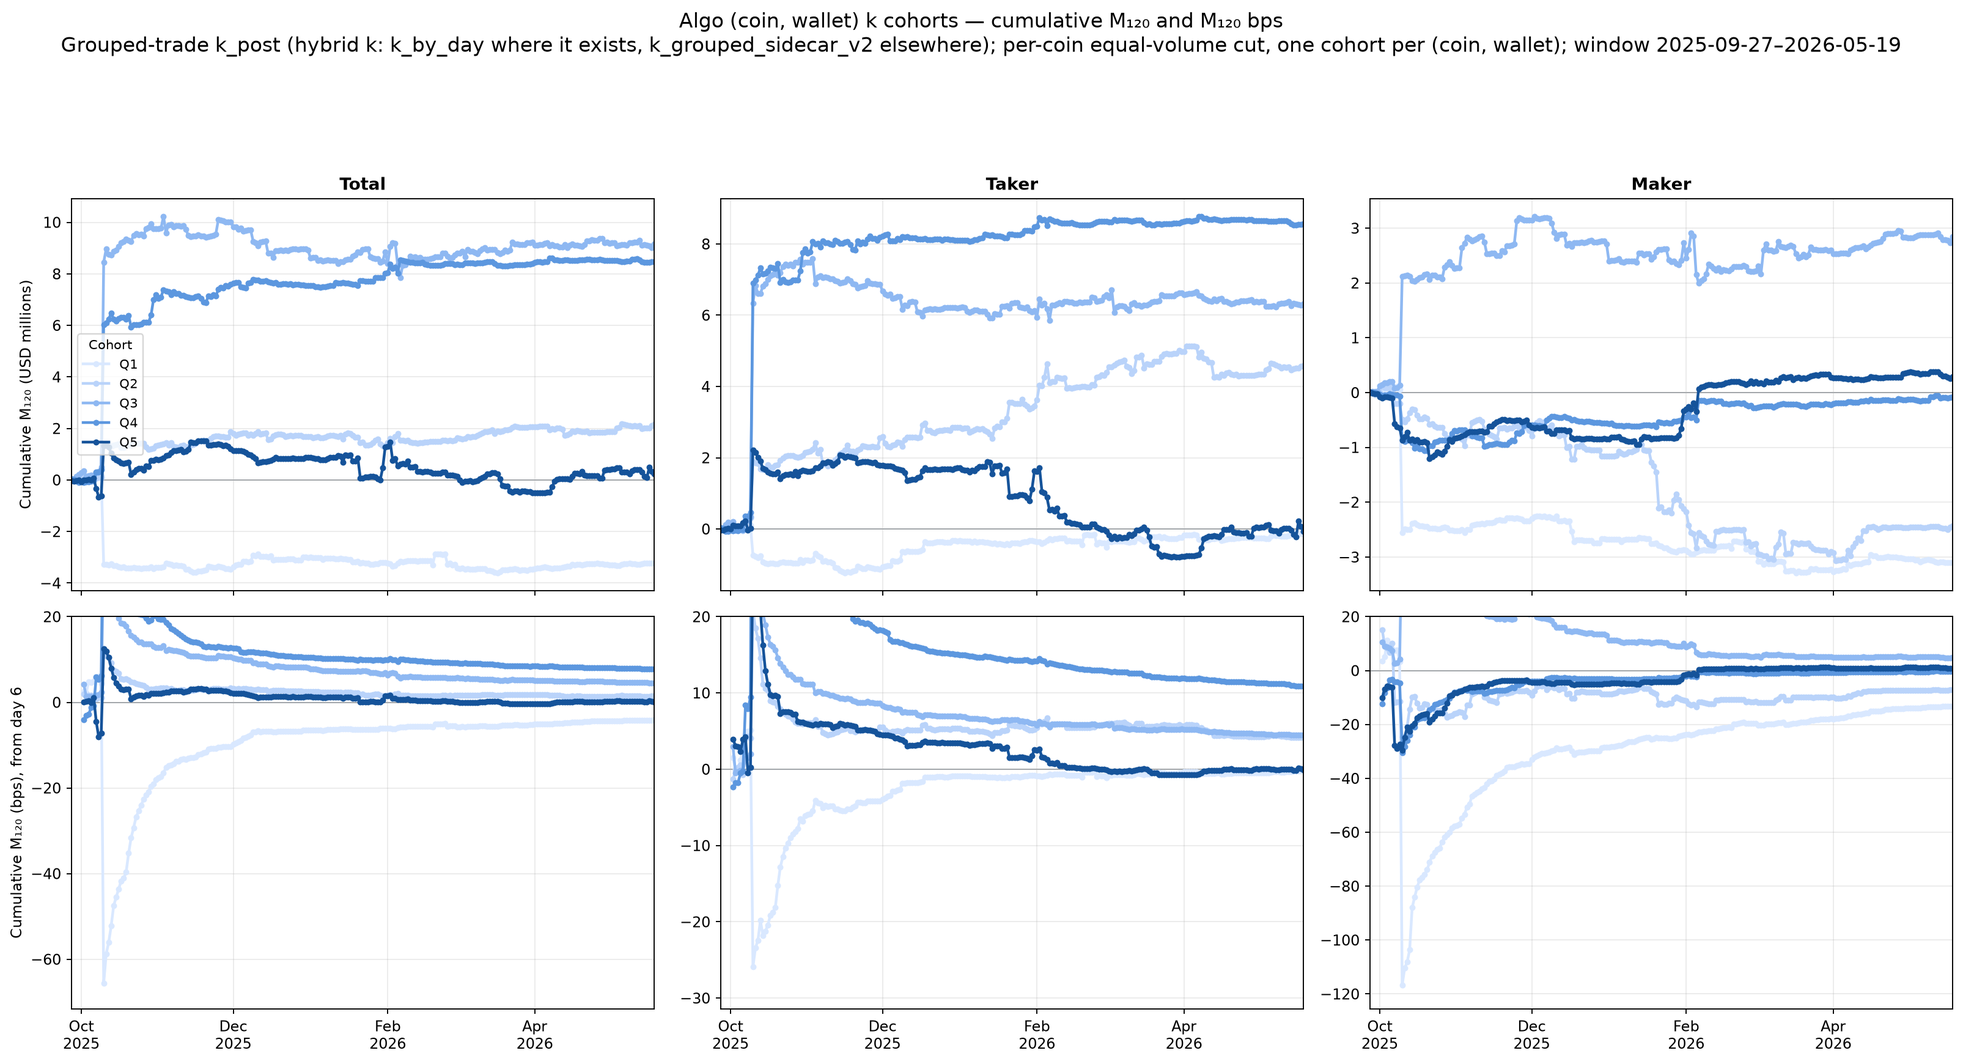
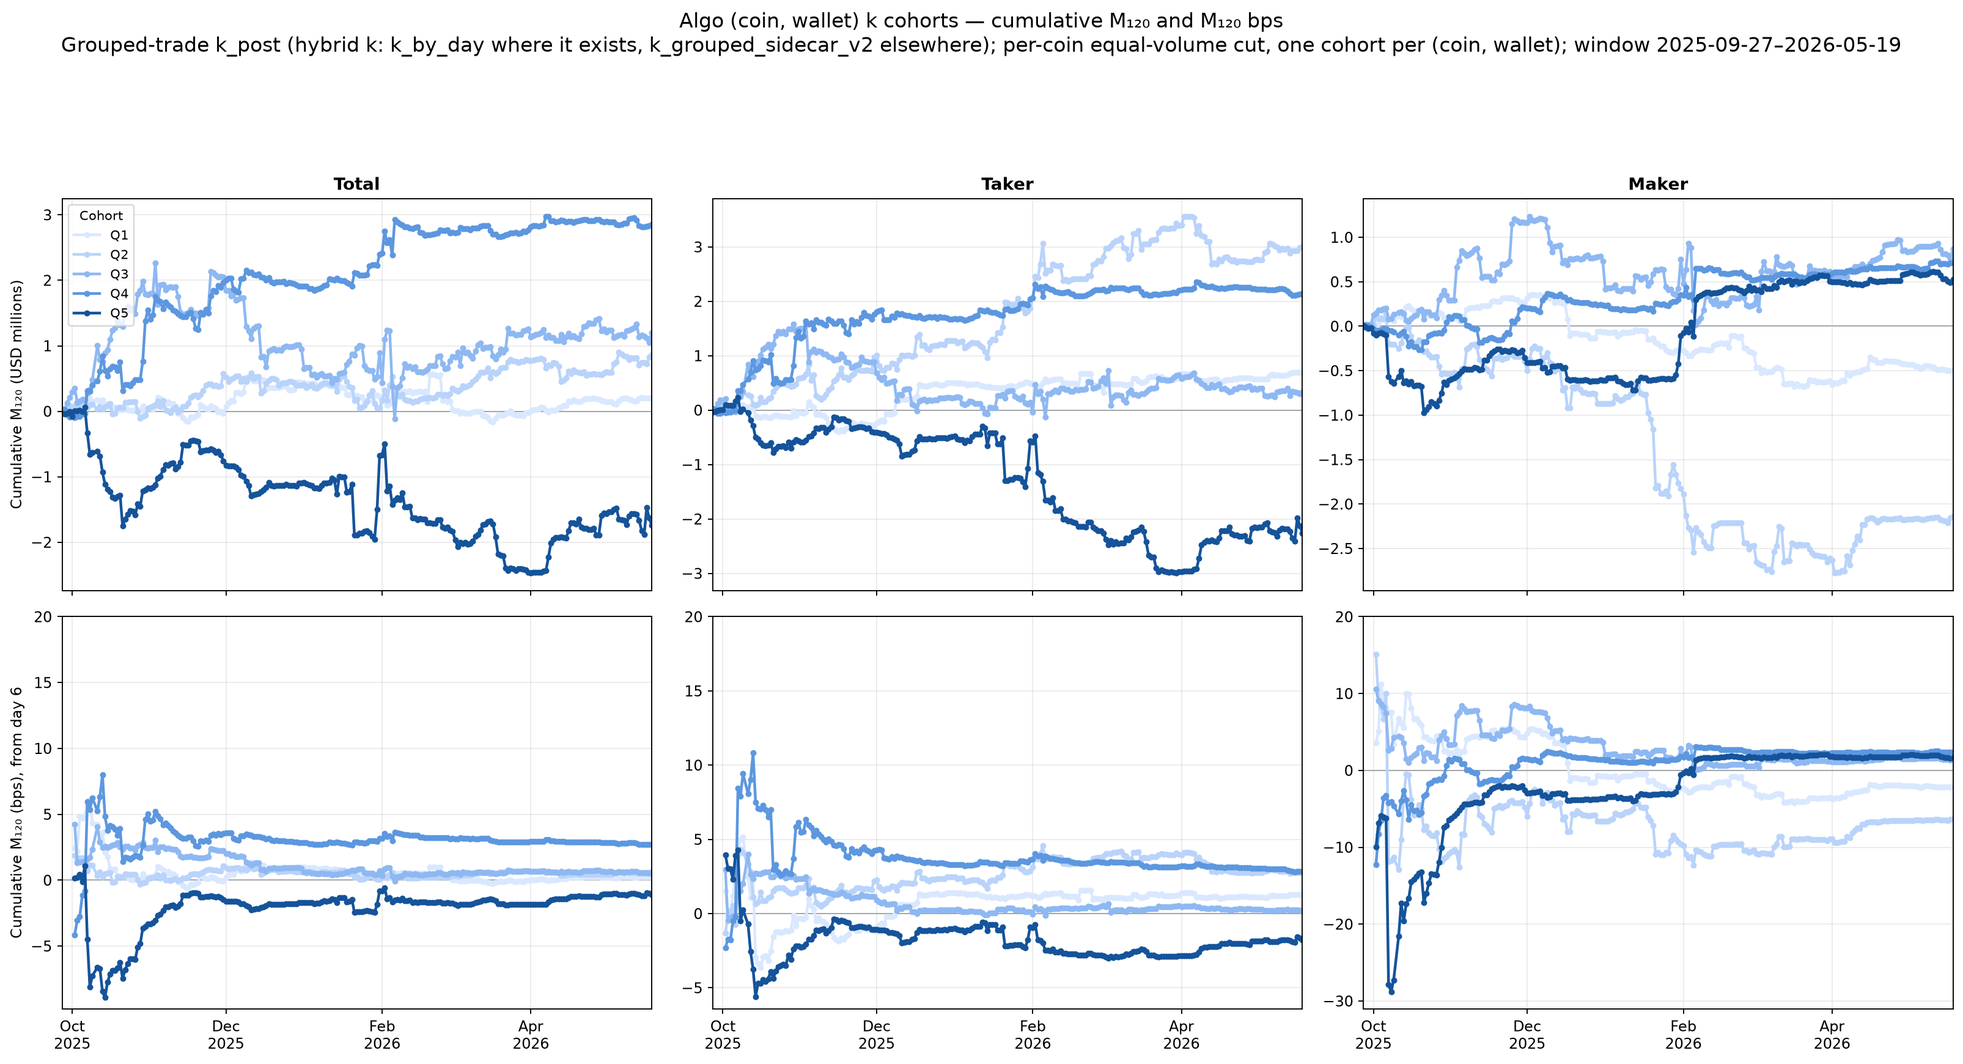
Cumulative-markout figures now exclude 2025-10-10, matching the published basis

diff --git a/index.html b/index.html
@@ -318,28 +318,28 @@ liquidation pattern is therefore generated by the margin arithmetic of a
 thin account, not by a surge in averaging down immediately before
 liquidation.</p>
 <h3 id="appendix-table-c.-markout-and-timing-by-trade-purpose">Appendix Table C. Markout and Its Price-Impact Component by Trade Purpose, Horizon and Leverage Cohort</h3>
-<p>Table L3 reports the markout on the cohort’s whole voluntary taker book. Splitting it by trade purpose locates the leverage gradient in the opening trade. At 2 hours the opening markout runs +2.08, −1.46, −4.80, −2.97 and −3.95 bps from Q1 to Q5, so the lowest-leverage cohort is the only one whose openings are still profitable, and the gradient is present at every horizon from 30 minutes on. The two closing purposes carry no leverage order at any horizon. The price-impact panel shows why the cohorts look alike inside a purpose: every cohort opens after the price has already moved 3 to 6 bps in the direction of the fill and realizes losses after an adverse move of 32 to 33 bps, and what separates them is the price path after the trade rather than the state they trade into.</p>
+<p>Table L3 reports the markout on the cohort’s whole voluntary taker book. Splitting it by trade purpose locates the leverage gradient in the opening trade. At 2 hours the opening markout runs +1.81, −0.69, −3.33, −2.03 and −3.13 bps from Q1 to Q5, so the lowest-leverage cohort is the only one whose openings are still profitable, and the gradient is present at every horizon from 30 minutes on. The two closing purposes carry no leverage order at any horizon. The price-impact panel shows why the cohorts look alike inside a purpose: every cohort opens after the price has already moved 3 to 6 bps in the direction of the fill and realizes losses after an adverse move of 30 to 32 bps, and what separates them is the price path after the trade rather than the state they trade into.</p>
 <p><strong>Panel A. Markout, bps of the purpose’s taker volume</strong></p>
 <table>
 <thead>
 <tr><th>Horizon</th><th style="text-align: right;">Q1</th><th style="text-align: right;">Q2</th><th style="text-align: right;">Q3</th><th style="text-align: right;">Q4</th><th style="text-align: right;">Q5</th></tr>
 </thead>
 <tbody>
-<tr><td colspan="6"><strong>Opening</strong>&nbsp;&nbsp;<span style="font-weight:400;color:#687773">taker volume $B, Q1 to Q5: 83.3 | 87.5 | 84.5 | 84.6 | 83.7</span></td></tr>
-<tr><td>+5 min</td><td style="text-align: right;">+0.41</td><td style="text-align: right;">+0.21</td><td style="text-align: right;">+0.08</td><td style="text-align: right;">−0.16</td><td style="text-align: right;">−0.39</td></tr>
-<tr><td>+30 min</td><td style="text-align: right;">+1.13</td><td style="text-align: right;">+0.69</td><td style="text-align: right;">−0.55</td><td style="text-align: right;">−1.07</td><td style="text-align: right;">−1.57</td></tr>
-<tr><td>+60 min</td><td style="text-align: right;">+2.22</td><td style="text-align: right;">−0.12</td><td style="text-align: right;">−2.27</td><td style="text-align: right;">−2.06</td><td style="text-align: right;">−1.87</td></tr>
-<tr><td>+120 min</td><td style="text-align: right;">+2.08</td><td style="text-align: right;">−1.46</td><td style="text-align: right;">−4.80</td><td style="text-align: right;">−2.97</td><td style="text-align: right;">−3.95</td></tr>
-<tr><td colspan="6"><strong>Gain-realizing close</strong>&nbsp;&nbsp;<span style="font-weight:400;color:#687773">taker volume $B, Q1 to Q5: 43.9 | 44.3 | 39.6 | 36.7 | 34.7</span></td></tr>
-<tr><td>+5 min</td><td style="text-align: right;">+1.01</td><td style="text-align: right;">+0.74</td><td style="text-align: right;">+0.03</td><td style="text-align: right;">−0.13</td><td style="text-align: right;">−0.47</td></tr>
-<tr><td>+30 min</td><td style="text-align: right;">+0.92</td><td style="text-align: right;">+0.68</td><td style="text-align: right;">−1.03</td><td style="text-align: right;">−0.29</td><td style="text-align: right;">−0.02</td></tr>
-<tr><td>+60 min</td><td style="text-align: right;">+1.25</td><td style="text-align: right;">+1.19</td><td style="text-align: right;">+1.18</td><td style="text-align: right;">+0.78</td><td style="text-align: right;">−0.94</td></tr>
-<tr><td>+120 min</td><td style="text-align: right;">+1.78</td><td style="text-align: right;">+0.81</td><td style="text-align: right;">+0.44</td><td style="text-align: right;">+0.39</td><td style="text-align: right;">−0.39</td></tr>
-<tr><td colspan="6"><strong>Loss-realizing close</strong>&nbsp;&nbsp;<span style="font-weight:400;color:#687773">taker volume $B, Q1 to Q5: 42.6 | 42.3 | 44.6 | 46.1 | 42.4</span></td></tr>
-<tr><td>+5 min</td><td style="text-align: right;">+1.72</td><td style="text-align: right;">+1.58</td><td style="text-align: right;">+0.11</td><td style="text-align: right;">+0.23</td><td style="text-align: right;">−0.29</td></tr>
-<tr><td>+30 min</td><td style="text-align: right;">−0.44</td><td style="text-align: right;">+1.90</td><td style="text-align: right;">+2.23</td><td style="text-align: right;">+0.86</td><td style="text-align: right;">+1.19</td></tr>
-<tr><td>+60 min</td><td style="text-align: right;">−2.65</td><td style="text-align: right;">+0.36</td><td style="text-align: right;">+1.60</td><td style="text-align: right;">−0.62</td><td style="text-align: right;">+1.23</td></tr>
-<tr><td>+120 min</td><td style="text-align: right;">−0.21</td><td style="text-align: right;">+4.73</td><td style="text-align: right;">+5.27</td><td style="text-align: right;">+1.77</td><td style="text-align: right;">+3.30</td></tr>
+<tr><td colspan="6"><strong>Opening</strong>&nbsp;&nbsp;<span style="font-weight:400;color:#687773">taker volume $B, Q1 to Q5: 82.1 | 86.0 | 82.9 | 83.4 | 82.5</span></td></tr>
+<tr><td>+5 min</td><td style="text-align: right;">+0.22</td><td style="text-align: right;">+0.29</td><td style="text-align: right;">+0.14</td><td style="text-align: right;">−0.09</td><td style="text-align: right;">−0.31</td></tr>
+<tr><td>+30 min</td><td style="text-align: right;">+0.14</td><td style="text-align: right;">+0.54</td><td style="text-align: right;">−0.64</td><td style="text-align: right;">−0.90</td><td style="text-align: right;">−1.47</td></tr>
+<tr><td>+60 min</td><td style="text-align: right;">+1.12</td><td style="text-align: right;">−0.28</td><td style="text-align: right;">−1.69</td><td style="text-align: right;">−2.07</td><td style="text-align: right;">−2.28</td></tr>
+<tr><td>+120 min</td><td style="text-align: right;">+1.81</td><td style="text-align: right;">−0.69</td><td style="text-align: right;">−3.33</td><td style="text-align: right;">−2.03</td><td style="text-align: right;">−3.13</td></tr>
+<tr><td colspan="6"><strong>Gain-realizing close</strong>&nbsp;&nbsp;<span style="font-weight:400;color:#687773">taker volume $B, Q1 to Q5: 43.5 | 43.9 | 39.1 | 36.3 | 34.4</span></td></tr>
+<tr><td>+5 min</td><td style="text-align: right;">+1.37</td><td style="text-align: right;">+0.51</td><td style="text-align: right;">+0.22</td><td style="text-align: right;">+0.43</td><td style="text-align: right;">−0.20</td></tr>
+<tr><td>+30 min</td><td style="text-align: right;">+1.22</td><td style="text-align: right;">−0.47</td><td style="text-align: right;">+0.28</td><td style="text-align: right;">+0.73</td><td style="text-align: right;">−0.78</td></tr>
+<tr><td>+60 min</td><td style="text-align: right;">+1.49</td><td style="text-align: right;">−0.04</td><td style="text-align: right;">−0.89</td><td style="text-align: right;">+1.18</td><td style="text-align: right;">+0.48</td></tr>
+<tr><td>+120 min</td><td style="text-align: right;">+2.05</td><td style="text-align: right;">−0.27</td><td style="text-align: right;">+0.06</td><td style="text-align: right;">+0.74</td><td style="text-align: right;">−0.52</td></tr>
+<tr><td colspan="6"><strong>Loss-realizing close</strong>&nbsp;&nbsp;<span style="font-weight:400;color:#687773">taker volume $B, Q1 to Q5: 41.9 | 41.4 | 43.5 | 45.3 | 41.6</span></td></tr>
+<tr><td>+5 min</td><td style="text-align: right;">+0.40</td><td style="text-align: right;">+0.56</td><td style="text-align: right;">−1.55</td><td style="text-align: right;">−0.76</td><td style="text-align: right;">−0.70</td></tr>
+<tr><td>+30 min</td><td style="text-align: right;">+0.06</td><td style="text-align: right;">+0.43</td><td style="text-align: right;">−1.29</td><td style="text-align: right;">−1.95</td><td style="text-align: right;">−0.23</td></tr>
+<tr><td>+60 min</td><td style="text-align: right;">−1.61</td><td style="text-align: right;">+0.50</td><td style="text-align: right;">−0.31</td><td style="text-align: right;">−1.32</td><td style="text-align: right;">+0.86</td></tr>
+<tr><td>+120 min</td><td style="text-align: right;">−0.25</td><td style="text-align: right;">+1.86</td><td style="text-align: right;">+0.49</td><td style="text-align: right;">−1.38</td><td style="text-align: right;">+1.10</td></tr>
 </tbody>
 </table>
 <p><strong>Panel B. Price-impact component, bps of the purpose’s taker volume</strong></p>
@@ -348,21 +348,21 @@ liquidation.</p>
 <tr><th>Horizon</th><th style="text-align: right;">Q1</th><th style="text-align: right;">Q2</th><th style="text-align: right;">Q3</th><th style="text-align: right;">Q4</th><th style="text-align: right;">Q5</th></tr>
 </thead>
 <tbody>
-<tr><td colspan="6"><strong>Opening</strong>&nbsp;&nbsp;<span style="font-weight:400;color:#687773">taker volume $B, Q1 to Q5: 83.3 | 87.5 | 84.5 | 84.6 | 83.7</span></td></tr>
-<tr><td>−10 min, before the fill</td><td style="text-align: right;">−5.25</td><td style="text-align: right;">−5.56</td><td style="text-align: right;">−4.58</td><td style="text-align: right;">−4.39</td><td style="text-align: right;">−2.57</td></tr>
-<tr><td>+5 min</td><td style="text-align: right;">+2.54</td><td style="text-align: right;">+2.43</td><td style="text-align: right;">+2.34</td><td style="text-align: right;">+1.80</td><td style="text-align: right;">+1.41</td></tr>
-<tr><td>+30 min</td><td style="text-align: right;">+3.26</td><td style="text-align: right;">+2.93</td><td style="text-align: right;">+1.71</td><td style="text-align: right;">+0.93</td><td style="text-align: right;">+0.24</td></tr>
-<tr><td>+120 min</td><td style="text-align: right;">+4.23</td><td style="text-align: right;">+0.84</td><td style="text-align: right;">−2.56</td><td style="text-align: right;">−0.95</td><td style="text-align: right;">−2.11</td></tr>
-<tr><td colspan="6"><strong>Gain-realizing close</strong>&nbsp;&nbsp;<span style="font-weight:400;color:#687773">taker volume $B, Q1 to Q5: 43.9 | 44.3 | 39.6 | 36.7 | 34.7</span></td></tr>
-<tr><td>−10 min, before the fill</td><td style="text-align: right;">+3.58</td><td style="text-align: right;">+8.80</td><td style="text-align: right;">+6.33</td><td style="text-align: right;">+4.84</td><td style="text-align: right;">+6.74</td></tr>
-<tr><td>+5 min</td><td style="text-align: right;">+3.66</td><td style="text-align: right;">+3.37</td><td style="text-align: right;">+2.40</td><td style="text-align: right;">+2.15</td><td style="text-align: right;">+1.55</td></tr>
-<tr><td>+30 min</td><td style="text-align: right;">+3.57</td><td style="text-align: right;">+3.32</td><td style="text-align: right;">+2.35</td><td style="text-align: right;">+1.99</td><td style="text-align: right;">+1.11</td></tr>
-<tr><td>+120 min</td><td style="text-align: right;">+4.41</td><td style="text-align: right;">+3.41</td><td style="text-align: right;">+2.82</td><td style="text-align: right;">+2.66</td><td style="text-align: right;">+1.68</td></tr>
-<tr><td colspan="6"><strong>Loss-realizing close</strong>&nbsp;&nbsp;<span style="font-weight:400;color:#687773">taker volume $B, Q1 to Q5: 42.6 | 42.3 | 44.6 | 46.1 | 42.4</span></td></tr>
-<tr><td>−10 min, before the fill</td><td style="text-align: right;">−33.08</td><td style="text-align: right;">−31.70</td><td style="text-align: right;">−33.35</td><td style="text-align: right;">−32.99</td><td style="text-align: right;">−32.92</td></tr>
-<tr><td>+5 min</td><td style="text-align: right;">+5.11</td><td style="text-align: right;">+4.26</td><td style="text-align: right;">+3.26</td><td style="text-align: right;">+2.95</td><td style="text-align: right;">+2.36</td></tr>
-<tr><td>+30 min</td><td style="text-align: right;">+2.95</td><td style="text-align: right;">+4.54</td><td style="text-align: right;">+5.39</td><td style="text-align: right;">+3.56</td><td style="text-align: right;">+3.80</td></tr>
-<tr><td>+120 min</td><td style="text-align: right;">+3.17</td><td style="text-align: right;">+7.25</td><td style="text-align: right;">+8.42</td><td style="text-align: right;">+4.46</td><td style="text-align: right;">+5.86</td></tr>
+<tr><td colspan="6"><strong>Opening</strong>&nbsp;&nbsp;<span style="font-weight:400;color:#687773">taker volume $B, Q1 to Q5: 82.1 | 86.0 | 82.9 | 83.4 | 82.5</span></td></tr>
+<tr><td>−10 min, before the fill</td><td style="text-align: right;">−6.19</td><td style="text-align: right;">−6.19</td><td style="text-align: right;">−6.02</td><td style="text-align: right;">−5.19</td><td style="text-align: right;">−3.02</td></tr>
+<tr><td>+5 min</td><td style="text-align: right;">+2.21</td><td style="text-align: right;">+2.39</td><td style="text-align: right;">+2.18</td><td style="text-align: right;">+1.76</td><td style="text-align: right;">+1.37</td></tr>
+<tr><td>+30 min</td><td style="text-align: right;">+2.13</td><td style="text-align: right;">+2.66</td><td style="text-align: right;">+1.40</td><td style="text-align: right;">+0.98</td><td style="text-align: right;">+0.21</td></tr>
+<tr><td>+120 min</td><td style="text-align: right;">+3.82</td><td style="text-align: right;">+1.49</td><td style="text-align: right;">−1.31</td><td style="text-align: right;">−0.13</td><td style="text-align: right;">−1.42</td></tr>
+<tr><td colspan="6"><strong>Gain-realizing close</strong>&nbsp;&nbsp;<span style="font-weight:400;color:#687773">taker volume $B, Q1 to Q5: 43.5 | 43.9 | 39.1 | 36.3 | 34.4</span></td></tr>
+<tr><td>−10 min, before the fill</td><td style="text-align: right;">+2.87</td><td style="text-align: right;">+7.42</td><td style="text-align: right;">+5.64</td><td style="text-align: right;">+4.42</td><td style="text-align: right;">+6.42</td></tr>
+<tr><td>+5 min</td><td style="text-align: right;">+3.94</td><td style="text-align: right;">+2.99</td><td style="text-align: right;">+2.51</td><td style="text-align: right;">+2.62</td><td style="text-align: right;">+1.71</td></tr>
+<tr><td>+30 min</td><td style="text-align: right;">+3.79</td><td style="text-align: right;">+2.01</td><td style="text-align: right;">+2.57</td><td style="text-align: right;">+2.92</td><td style="text-align: right;">+1.13</td></tr>
+<tr><td>+120 min</td><td style="text-align: right;">+4.60</td><td style="text-align: right;">+2.17</td><td style="text-align: right;">+2.36</td><td style="text-align: right;">+2.93</td><td style="text-align: right;">+1.35</td></tr>
+<tr><td colspan="6"><strong>Loss-realizing close</strong>&nbsp;&nbsp;<span style="font-weight:400;color:#687773">taker volume $B, Q1 to Q5: 41.9 | 41.4 | 43.5 | 45.3 | 41.6</span></td></tr>
+<tr><td>−10 min, before the fill</td><td style="text-align: right;">−31.15</td><td style="text-align: right;">−29.68</td><td style="text-align: right;">−31.37</td><td style="text-align: right;">−31.34</td><td style="text-align: right;">−32.04</td></tr>
+<tr><td>+5 min</td><td style="text-align: right;">+3.63</td><td style="text-align: right;">+3.04</td><td style="text-align: right;">+1.52</td><td style="text-align: right;">+1.86</td><td style="text-align: right;">+1.81</td></tr>
+<tr><td>+30 min</td><td style="text-align: right;">+3.29</td><td style="text-align: right;">+2.88</td><td style="text-align: right;">+1.78</td><td style="text-align: right;">+0.65</td><td style="text-align: right;">+2.25</td></tr>
+<tr><td>+120 min</td><td style="text-align: right;">+2.97</td><td style="text-align: right;">+4.18</td><td style="text-align: right;">+3.55</td><td style="text-align: right;">+1.21</td><td style="text-align: right;">+3.53</td></tr>
 </tbody>
 </table>
 <p class="tnote"><em>Notes.</em> September 27, 2025 to May 19, 2026, 10 coins, October 10 excluded. Front-end taker fills only; liquidation and ADL orders are not a voluntary purpose and are excluded. Markout at horizon h is the price move from the fill price to the mid h minutes later, signed in the trade’s direction, summed over the bucket and divided by the bucket’s notional. The price-impact component measures the same move from the mid at the trade rather than from the fill price, so markout equals price impact plus execution cost, and the −10 minute row is the move over the 10 minutes before the fill on the same sign convention. <span class="src">Source <code>equal_vol_volweighted_lifetime_median_grouped_trade/retail/tables/taker_m_by_horizon_trade_type.csv</code> and <code>taker_timing_by_horizon_trade_type.csv</code>, scope <code>agg</code>.</span></p>
@@ -381,4 +381,4 @@ liquidation.</p>
 <figure><img src="figs/lev_cum_m120_algo.png" alt="Cumulative 120-minute markout of algorithmic takers by leverage cohort"></figure>
 <p class="figcap"><strong>Appendix Figure D. Algorithmic takers.</strong> Axes, panels and cohort construction as in Appendix Figure B, cut on this group’s own equal-volume leverage quintiles. <span class="src">Source <code>equal_vol_percoin_coinuser_grouped_trade/algo/agg/cumulative_m120_and_bps.png</code>.</span></p>
 <p class="tnote"><span class="todo">Appendix Figures A, B, C and D use an orange ramp. The section’s convention is one hue per group, purple for front-end, blue for algorithmic takers, green for market makers. Repalette before publication, and relabel their “timing” axes as price impact.</span></p>
-</main><script>(function(){var b=document.body,n=document.getElementById('sidebar'),t=document.getElementById('navtoggle'),K='lev-nav';function set(open,store){n.classList.toggle('collapsed',!open);b.classList.toggle('nav-collapsed',!open);t.setAttribute('aria-expanded',open?'true':'false');t.textContent=open?'✕':'☰';if(store){try{localStorage.setItem(K,open?'open':'closed')}catch(e){}}}var v=null;try{v=localStorage.getItem(K)}catch(e){}set(v?v==='open':window.innerWidth>900,false);t.addEventListener('click',function(){set(n.classList.contains('collapsed'),true)});})();</script><p style="font-size:0.85em;color:#555;margin-top:2.5em;border-top:1px solid #ddd;padding-top:0.8em">Rebuilt 2026-09-23 on the window 2025-09-27 to 2026-05-19 with the new k only (node-snapshot k_by_day_v6 for 2025-10-20 to 2026-05-19, Allium-anchored k for 2025-09-27 to 10-19, flagged rows removed; no data after 2026-05-19; Retail boundaries 0.087 / 0.138 / 0.240 / 0.363; 272,315 front-end wallets). Figures, Tables L1 to L4, Appendix Tables A and C and the sentences quoting them are from this build. The two trade-purpose tables are recomputed at grouped-trade grain (one row per order execution), so average notional is larger than the published fill-grain figure. Not rebuilt and kept from the published version: the three-group liquidation-loss shares and ADL totals, Appendix Table B, the fee-regression coefficients, the wallet-life dollar figures in the closing paragraphs, and the 0.31% reconciliation error. A variant with the 2026-01-31 whale <code>0xb317d2bc…</code> removed: <a href="https://shouqiao0530.github.io/hyperliquid-leverage-nowhale/">https://shouqiao0530.github.io/hyperliquid-leverage-nowhale/</a>. A variant excluding the 86 wallets with $5M+ median equity: <a href="https://shouqiao0530.github.io/hyperliquid-leverage-large-excluded/">https://shouqiao0530.github.io/hyperliquid-leverage-large-excluded/</a>.</p></body></html>
+</main><script>(function(){var b=document.body,n=document.getElementById('sidebar'),t=document.getElementById('navtoggle'),K='lev-nav';function set(open,store){n.classList.toggle('collapsed',!open);b.classList.toggle('nav-collapsed',!open);t.setAttribute('aria-expanded',open?'true':'false');t.textContent=open?'✕':'☰';if(store){try{localStorage.setItem(K,open?'open':'closed')}catch(e){}}}var v=null;try{v=localStorage.getItem(K)}catch(e){}set(v?v==='open':window.innerWidth>900,false);t.addEventListener('click',function(){set(n.classList.contains('collapsed'),true)});})();</script><p style="font-size:0.85em;color:#555;margin-top:2.5em;border-top:1px solid #ddd;padding-top:0.8em"><strong>The three cumulative-markout figures now exclude 2025-10-10</strong>, matching the published figures, whose subtitle carries the same exclusion; every other exhibit keeps that day. The cohort cut itself still uses all dates. Rebuilt 2026-09-23 on the window 2025-09-27 to 2026-05-19 with the new k only (node-snapshot k_by_day_v6 for 2025-10-20 to 2026-05-19, Allium-anchored k for 2025-09-27 to 10-19, flagged rows removed; no data after 2026-05-19; Retail boundaries 0.087 / 0.138 / 0.240 / 0.363; 272,315 front-end wallets). Figures, Tables L1 to L4, Appendix Tables A and C and the sentences quoting them are from this build. The two trade-purpose tables are recomputed at grouped-trade grain (one row per order execution), so average notional is larger than the published fill-grain figure. Not rebuilt and kept from the published version: the three-group liquidation-loss shares and ADL totals, Appendix Table B, the fee-regression coefficients, the wallet-life dollar figures in the closing paragraphs, and the 0.31% reconciliation error.</p></body></html>
